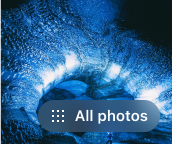
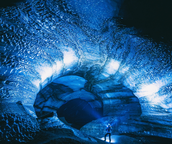
add Intro section

diff --git a/src/components/HeaderPhotos/HeaderPhotos.tsx b/src/components/HeaderPhotos/HeaderPhotos.tsx
@@ -6,6 +6,7 @@ import frame02 from "../../assets/pictures/Frame 02.png";
 import frame03 from "../../assets/pictures/Frame 03.png";
 import frame04 from "../../assets/pictures/Frame 04.png";
 import frame05 from "../../assets/pictures/Frame 05.png";
+import HeaderPhotosButton from "../HeaderPhotosButton/HeaderPhotosButton";
 
 const Photos = [
 	{
@@ -38,19 +39,22 @@ const Photos = [
 const HeaderPhotos: FC = () => {
 	return (
 		<div className={styles.root}>
-			{Photos &&
-				Photos.map((item, index) => {
-					return (
-						<img
-							className={classNames({
-								[styles.firstElem]: index === 0,
-							})}
-							key={item.name}
-							src={item.urlLocal}
-							alt={item.name}
-						/>
-					);
-				})}
+			<div className={styles.wrapper}>
+				{Photos &&
+					Photos.map((item, index) => {
+						return (
+							<img
+								className={classNames({
+									[styles.firstElem]: index === 0,
+								})}
+								key={item.name}
+								src={item.urlLocal}
+								alt={item.name}
+							/>
+						);
+					})}
+			</div>
+			<HeaderPhotosButton />
 		</div>
 	);
 };

diff --git a/src/components/Intro/Intro.tsx b/src/components/Intro/Intro.tsx
@@ -1,8 +1,29 @@
 import { FC } from "react";
 import styles from "./Intro.module.scss";
+import IntroItem from "../IntroItem/IntroItem";
+import IntroButton from "../IntroButton/IntroButton";
+
+const Data = [
+	{ title: "Trip duration", value: "7 days" },
+	{ title: "Exploration", value: "4 regions" },
+	{ title: "Flight", value: "7h 20m from SFO" },
+];
 
 const Intro: FC = () => {
-	return <div className={styles.root}>Hello World</div>;
+	return (
+		<div className={styles.root}>
+			<div className={styles.wrapper}>
+				{Data &&
+					Data.map((item) => {
+						return (
+							<IntroItem title={item.title} value={item.value} />
+						);
+					})}
+
+				<IntroButton />
+			</div>
+		</div>
+	);
 };
 
 export default Intro;

diff --git a/src/components/Intro/Intro.module.scss b/src/components/Intro/Intro.module.scss
@@ -1,7 +1,22 @@
-@import "../../utilities/variables";
+@import "../../assets/utilities/variables";
+@import "../../assets/utilities/theme.scss";
 
 .root {
 	width: $width;
 	height: 149px;
-	background-color: aqua;
+	display: flex;
+	justify-content: center;
+	align-items: center;
+}
+
+.wrapper {
+	border: 1px solid $primaryColor;
+	width: 697px;
+	height: 93px;
+	border-radius: 16px;
+	display: flex;
+	justify-content: space-between;
+	align-items: center;
+	padding: 0 27px;
+	box-sizing: border-box;
 }

diff --git a/src/components/HeaderPhotos/HeaderPhotos.module.scss b/src/components/HeaderPhotos/HeaderPhotos.module.scss
@@ -1,4 +1,4 @@
-@import "../../utilities/variables";
+@import "../../assets/utilities/variables";
 
 .root {
 	width: $width;
@@ -8,6 +8,18 @@
 	display: grid;
 	grid-template-columns: repeat(3, 1fr);
 	grid-gap: 4px;
+	position: relative;
+}
+
+.wrapper {
+	width: calc($width - 32px - 32px);
+	height: 292px;
+	box-sizing: border-box;
+	display: grid;
+	grid-template-columns: repeat(3, 1fr);
+	grid-gap: 4px;
+	border-radius: 26px;
+	overflow: hidden;
 }
 
 .firstElem {

diff --git a/src/components/Common/Button/Button.tsx b/src/components/Common/Button/Button.tsx
@@ -21,9 +21,17 @@ const Button: FC<ButtonProps> = (props) => {
 		isActive,
 		isBasic = true,
 	} = props;
+
+	const handleClick = (evt: OnMouseEvent) => {
+		evt.preventDefault();
+		if (typeof onClick === "function") {
+			onClick(evt);
+		}
+	};
+
 	return (
 		<div
-			onClick={onClick}
+			onClick={handleClick}
 			className={classNames(styles.root, className, {
 				[styles.iconActive]: !disabled,
 				[styles.disabled]: disabled,

diff --git a/src/components/HeaderPhotosButton/HeaderPhotosButton.tsx b/src/components/HeaderPhotosButton/HeaderPhotosButton.tsx
@@ -1,0 +1,16 @@
+import { FC } from "react";
+import styles from "./HeaderPhotosButton.module.scss";
+import Button, { OnMouseEvent } from "../Common/Button/Button";
+
+const HeaderPhotosButton: FC = () => {
+	return (
+		<Button
+			className={styles.root}
+			onClick={(e: OnMouseEvent) => console.log("All Photos", e)}>
+			<i className={styles.icon} />
+			All photos
+		</Button>
+	);
+};
+
+export default HeaderPhotosButton;

diff --git a/src/components/IntroItem/IntroItem.tsx b/src/components/IntroItem/IntroItem.tsx
@@ -1,0 +1,20 @@
+import { FC } from "react";
+import styles from "./IntroItem.module.scss";
+
+interface IntroItemsProps {
+	title: string;
+	value: string;
+}
+
+const IntroItem: FC<IntroItemsProps> = (props) => {
+	const { title, value } = props;
+
+	return (
+		<div className={styles.root}>
+			<span>{title}</span>
+			<span className={styles.value}>{value}</span>
+		</div>
+	);
+};
+
+export default IntroItem;

diff --git a/src/components/HeaderPhotosButton/HeaderPhotosButton.module.scss b/src/components/HeaderPhotosButton/HeaderPhotosButton.module.scss
@@ -1,0 +1,18 @@
+.root {
+	width: 122px;
+	position: absolute;
+	background-color: rgba(136, 136, 136, 0.3);
+	right: 43px;
+	bottom: 9px;
+	color: rgba(255, 255, 255, 1);
+
+	&:hover {
+		background-color: rgba(136, 136, 136, 0.5);
+	}
+}
+
+.icon {
+	background: transparent url('../../../src/assets/icons/All_Photos.svg') center no-repeat padding-box;
+	height: 13px;
+	width: 13px;
+}

diff --git a/src/components/IntroButton/IntroButton.tsx b/src/components/IntroButton/IntroButton.tsx
@@ -1,0 +1,15 @@
+import { FC } from "react";
+import styles from "./IntroButton.module.scss";
+import Button, { OnMouseEvent } from "../Common/Button/Button";
+
+const IntroButton: FC = () => {
+	return (
+		<Button
+			className={styles.root}
+			onClick={(e: OnMouseEvent) => console.log("View itinerary", e)}>
+			View itinerary
+		</Button>
+	);
+};
+
+export default IntroButton;

diff --git a/src/components/IntroItem/IntroItem.module.scss b/src/components/IntroItem/IntroItem.module.scss
@@ -1,0 +1,18 @@
+@import '../../assets/utilities/theme.scss';
+
+.root {
+	display: flex;
+	flex-direction: column;
+	align-items: start;
+	justify-content: center;
+	color: $color3C3C43;
+
+}
+
+.value {
+	color: $color000000;
+	font-weight: 600;
+	font-size: 16px;
+	line-height: 24px;
+	letter-spacing: -0.3px;
+}

diff --git a/src/components/Header/Header.module.scss b/src/components/Header/Header.module.scss
@@ -1,4 +1,4 @@
-@import "../../utilities/variables";
+@import "../../assets/utilities/variables";
 
 .root {
 	display: flex;
@@ -6,7 +6,6 @@
 	justify-content: space-between;
 	width: $width;
 	height: 72px;
-	// border: 1px solid gray;
 	padding: 0 32px;
 	box-sizing: border-box;
 }

diff --git a/src/components/HeaderCreateButton/HeaderCreateButton.module.scss b/src/components/HeaderCreateButton/HeaderCreateButton.module.scss
@@ -1,10 +1,4 @@
-@import "../../utilities/variables";
-
-.root {
-	width: $width;
-	height: 72px;
-	background-color: aqua;
-}
+@import "../../assets/utilities/variables";
 
 .icon {
 	background: transparent url('../../../src/assets/icons/Union.svg') center no-repeat padding-box;
